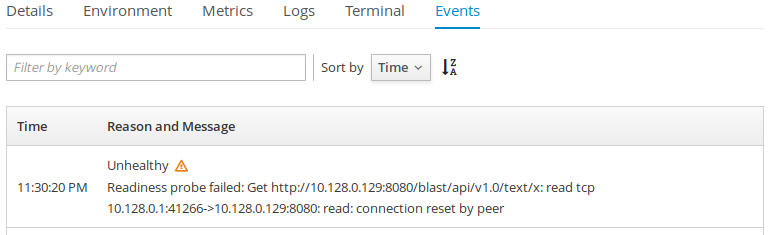
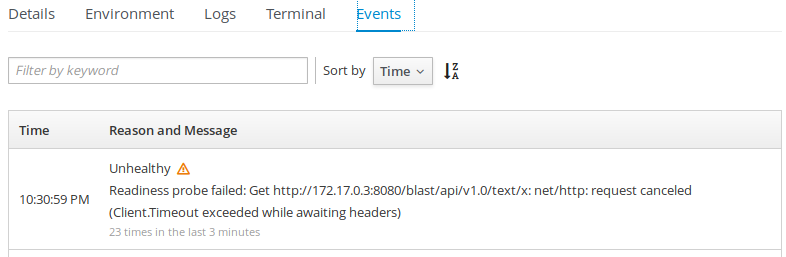
Added config map topic

diff --git a/2017/pycon/scenario.md b/2017/pycon/scenario.md
@@ -38,6 +38,8 @@ We'll start with creating a [project](https://docs.openshift.org/latest/dev_guid
 
 ** Project vs Namespace **
 
+A Kubernetes namespace provides a mechanism to scope resources in a cluster. In OpenShift Origin, a project is a Kubernetes namespace with additional annotations.
+
 TODO
 
 
@@ -90,28 +92,30 @@ To verify that the server is returning some content on /.
 
 ### Routes
 
-Our final step is to expose the application to the outside world, to do that we'll
-use the following command:
+Our final step is to expose the application to the outside world, to do that we'll use the following command:
 
     oc expose svc/ui
 
+Or using the web console:
+
 ![route](img/route.png)
 
-By now we should be able to reach our application, you can see the route address
-with:
+By now we should be able to reach our application, you can see the route address with:
 
     oc get route/ui
 
 Or check the overview page in the web console.
 
+![blast](img/blast.png)
+
 
 ## Text backend
 
-This time let's try using the web UI to create one of the python backends.
-
-**NOTE:** Don't forget to click `advanced options` and set `Context Dir` to `text`.
+This time let's try using the web UI to create one of the python backends.  Click `Add to project` at the top and pick python 3.5 builder image:
 
 ![text app](img/text_app.png)
+
+**NOTE:** Don't forget to click `advanced options` and set `Context Dir` to `text`.
 
 Alternatively, you can use the CLI:
 
@@ -121,6 +125,7 @@ Alternatively, you can use the CLI:
         --name=text \
         --image-stream=python:3.5 \
         --labels=app=text
+    oc expose svc/text
 
 Once the application builds, we should have the backend up and running.  Unfortunately, it looks like it's not working as expected, let's debug what's wrong with our application.  Click `#1`:
 
@@ -156,38 +161,60 @@ Alternatively:
 
     oc set env dc/text APP_MODULE=api:app
 
-Like previously let's configure the application liveness and readiness probes:
+Like previously, let's configure the application liveness and readiness probes:
 
     oc set probe dc/text --liveness --open-tcp=8080
     oc set probe dc/text --readiness --get-url=http://:8080/blast/api/v1.0/text/x
 
-Now that we've added the probes we see that the application is not being deployed properly, let's try to debug what's wrong with it.
-
-![terminal](img/terminal.png)
-
-    oc rsh pod/text-4-1v75n
-    curl localhost:8080
-
-The error clearly states the application is not working as expected, looking into
-events shows the readiness probe failed:
+Now that we've added the probes, we see that the application is not being deployed properly.  Let's try to debug what's wrong with it.  Looking into events shows the readiness probe failed:
 
 ![failed readiness](img/failed_readiness.png)
 
 ??? Is there some reasonable CLI ???
 
-The reason readiness failed is that the search backend wasn't able to connect to database, for this to work we need to setup one.
+The reason readiness failed is that the search backend wasn't able to connect to database:
+
+![pod logs](img/text_logs.png)
+
 
 ## Text database
 
+If we check our [sample application](https://github.com/soltysh/blast/tree/master/text) we clearly see it's reaching to MongoDB, which we haven't deployed, yet:
+
+![mongodb](img/mongodb.png)
+
     oc new-app mongodb:3.2 \
         --name=text-db \
-        --labels=app=text \
-        --env=MONGODB_ADMIN_PASSWORD=admin1234 \
-              MONGODB_DATABASE=blast_text
+        --labels=app=text
+
+This time again our mongodb deployment isn't working properly.  Looking once again into its logs:
+
+![mongodb logs](img/mongo_logs.png)
+
+OpenShift provided images have a set of required environment variables to be working properly.  They are all documented in https://docs.openshift.org/latest/using_images/db_images/index.html.  Looking at [MongoDB usage documentation](https://docs.openshift.org/latest/using_images/db_images/mongodb.html#configuration-and-usage) and knowing what we got in the logs we clearly see we need to set three values:
+
+- `MONGODB_USER` - user name for the MongoDB account.
+- `MONGODB_PASSWORD` - password for the user account.
+- `MONGODB_DATABASE` - database name.
+
+But since those data will be needed in several places of our application we would like to have a single place for that configuration.  This is where a [ConfigMap](https://docs.openshift.org/latest/dev_guide/configmaps.html) is being introduced.
 
 ## ConfigMap
 
-    oc set env dc/text --from=configmap/config
+On the Deployment Config configuration page, in Volumes section, there's a link allowing you to Add Config Files:
+
+![add config files](img/add_config.png)
+
+On the next screen we'll pick Create ConfigMap and fill it in with required data:
+
+![configmap value](img/configmap_value.png)
+
+**NOTE:** Both user name and password can be random strings, but database name needs to be `blast_text`.
+
+Once that is done we'll use a nice shorthand command to point both of our text deployments to the newly created config map:
+
+    oc set env dc/text-db --from=configmap/text
+    oc set env dc/text --from=configmap/text
 
 ## Templates
 
@@ -196,9 +223,11 @@ The reason readiness failed is that the search backend wasn't able to connect to
 
 ## CronJob
 
-    oc run scraper --schedule="0/1 * * * *" --image=soltysh/scraper --restart=OnFailure
+    oc run scraper --schedule="0/1 * * * *" --image=soltysh/scraper --restart=Never
 
 ## ServiceAccounts
+
+    oc policy add-role-to-user view -z default
 
 ## Resource Limits
 
